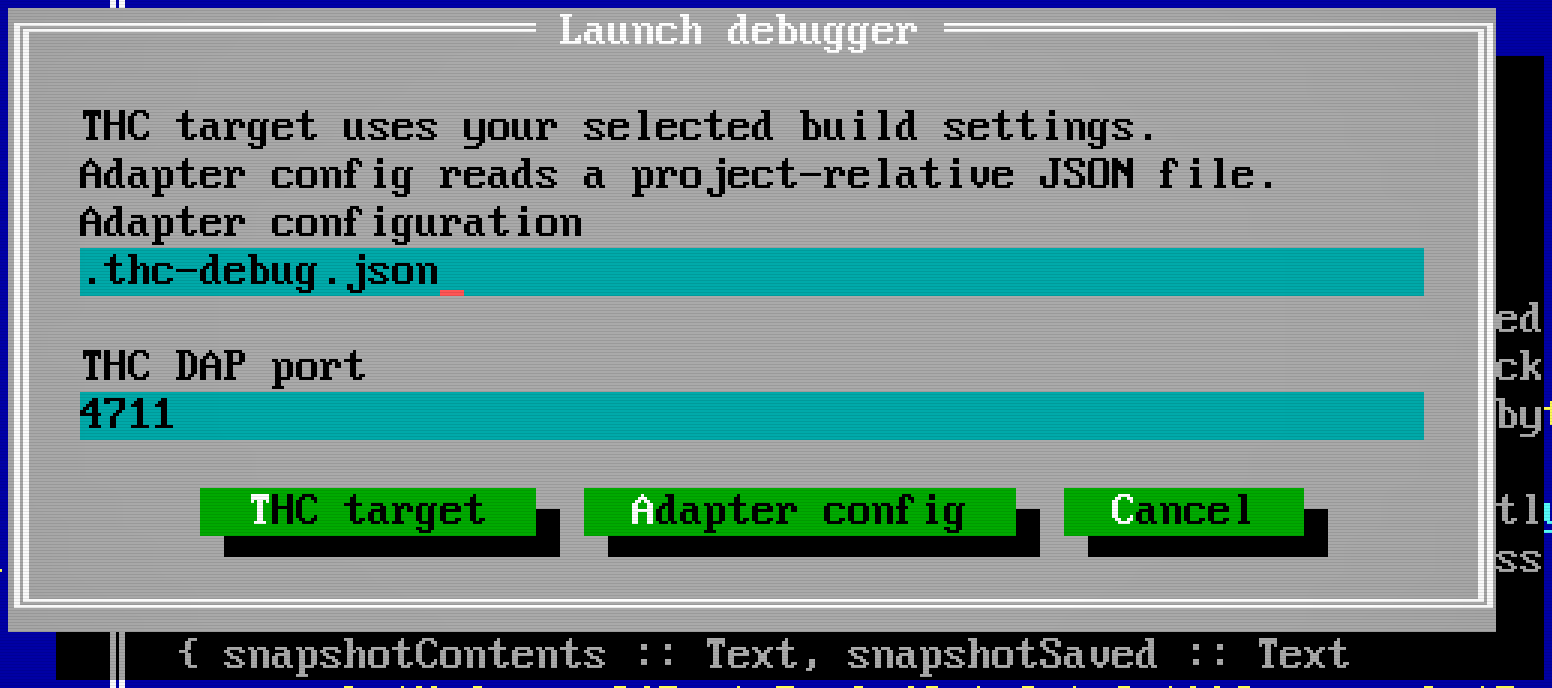
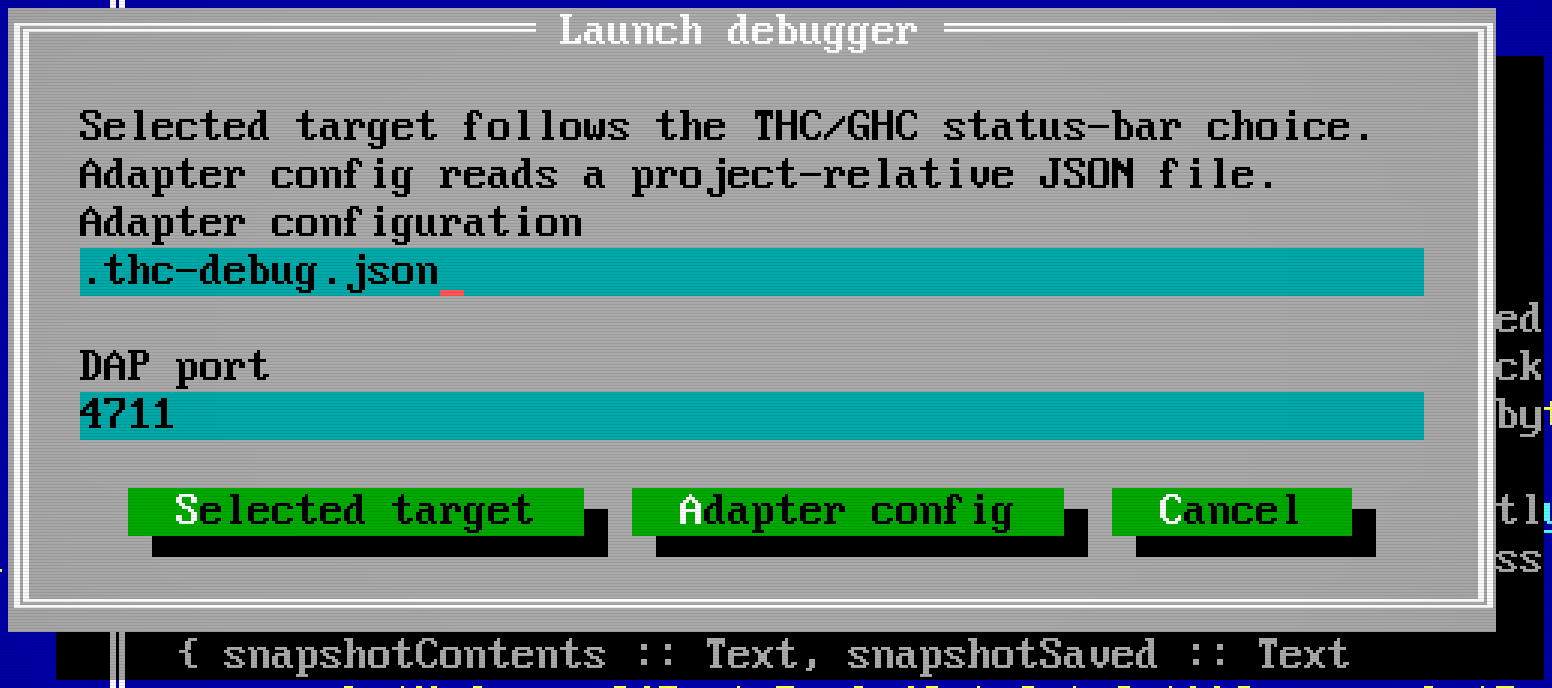
Unify THC and GHC selection in the status bar and debugger

diff --git a/test/dap-session.py b/test/dap-session.py
@@ -71,6 +71,7 @@ for session in range(1, 3 if mode == 'reconnect' else 2):
             if cmd == 'initialize':
                 event('initialized')
                 reply(req, dict(supportsConfigurationDoneRequest=True,
+                      supportsExceptionInfoRequest=mode in ('exception', 'mcp'),
                       exceptionBreakpointFilters=[dict(filter='uncaught', label='Uncaught exceptions', default=True)]))
             elif cmd in ('attach', 'launch'):
                 if mode == 'launch-fail':
@@ -102,6 +103,11 @@ for session in range(1, 3 if mode == 'reconnect' else 2):
                 reply(req)
                 reply(pending_attach)
                 event('stopped', dict(reason='entry', threadId=7, allThreadsStopped=True))
+            elif cmd == 'exceptionInfo':
+                assert mode in ('exception', 'mcp') and args['threadId'] == 7
+                reply(req, dict(exceptionId='IOException', description='cannot open λ.hs', breakMode='always',
+                    details=dict(typeName='IOException', message='permission denied', stackTrace='Main.hs:6',
+                                 innerException=[dict(typeName='Inner', message='nested cause')])) )
             elif cmd == 'threads':
                 thread_count += 1
                 if mode == 'lazy' and thread_count == 3:

diff --git a/docs/running.md b/docs/running.md
@@ -70,7 +70,7 @@ ACP terminal requests use the same backend, with approval before execution.
 
 ## Launch or attach a debugger
 
-**Debug > Launch** offers **THC target** and **Adapter config**. THC target
+**Debug > Launch** offers **Selected target** and **Adapter config**. With THC selected, Selected target
 uses the THC installation and package selected in **Run > Target**. Choose an
 unused loopback port (default `4711`); the editor starts `thc run --dap-port PORT`,
 waits for its debugger, and configures your breakpoints before execution.
@@ -80,7 +80,7 @@ launch can spend several minutes building and capturing dependencies.
 **Debug > Disconnect** stops that work; protocol response timing starts when
 the debugger connects.
 
-[![Launch debugger dialog offering THC target and Adapter config.](site/screenshots/debug-launch.png)](site/screenshots/debug-launch.png)
+[![Launch debugger dialog offering Selected target and Adapter config.](site/screenshots/debug-launch.png)](site/screenshots/debug-launch.png)
 
 THC initially stops at an instrumented source location. Embedded source opens
 read-only, where **Ctrl+F8** sets a breakpoint in the running program. Both
@@ -149,6 +149,23 @@ returns to the same breakpoints and stopped state. With THC, continuing to
 normal termination avoids a known early-detach shutdown race in the Graal DAP
 instrument.
 
+The status bar's **THC ▼** / **GHC ▼** menu switches the toolchain used by
+Compile, Make, Run and **Debug > Launch > Selected target**. The choice is saved
+with independent settings for each toolchain. A new choice starts with the
+standard `thc` or `ghc` executable; switching back restores its compiler and
+target. **Target settings…** lets you change them. Other open sessions refresh
+the global selection.
+Running sessions keep their current toolchain until you launch again.
+
+[![Status-bar toolchain selector with THC, GHC and Target settings.](site/screenshots/toolchain.png)](site/screenshots/toolchain.png)
+
+With **GHC** selected, open the saved Haskell entry file and choose **Selected
+target** to run its `main` through `hdb` on PATH. Program arguments come from
+Target settings. hdb uses that file's cradle/component and its own compiled-in
+GHC version. A customized GHC executable requires explicit **Adapter config**,
+so Selected target cannot silently substitute another compiler. Use **Adapter config**
+for a different entry point or additional GHC options.
+
 ## Step through a program
 
 1. Launch or attach, then wait for the first stop. The editor opens the
@@ -158,6 +175,8 @@ instrument.
    position; the status bar identifies the stopped frame.
 3. Open **Debug > Call stack**, select a frame and choose **Open** to visit its
    source. Use **Debug > Scopes** for values exposed by that adapter.
+   **Debug > Exceptions…** chooses when to stop; **Exception details** shows
+   the stopped exception, nested causes and stack when the adapter supports it.
 4. Press **F4** to continue. Set a breakpoint with **Ctrl+F8** when you want the
    program to stop at a source location instead of stepping all the way there.
 

diff --git a/docs/session-tools.md b/docs/session-tools.md
@@ -42,7 +42,7 @@ Editor positions are 1-based Unicode character positions. Raw LSP results retain
 
 `debug_status` reports the adapter, stop state, frame, breakpoints and current generation. Launch the selected THC target with `debug_launch`, supply an adapter configuration for another DAP implementation, or attach to a loopback adapter with `debug_attach`.
 
-Use `debug_set_breakpoints`, `debug_control` and `debug_inspect` to set source breakpoints, continue/step/pause, and inspect threads, stack frames, scopes, variables and adapter-owned source. Handles belong to a debug generation; the tool rejects them after execution advances. An accepted control command does not imply that the program has reached its next stop. Variable references must come from current scopes/variables responses. Lazy handles are not expanded by read-only inspection: adapters such as hdb force the thunk when those handles are requested. Variable invalidation expires the old handles without moving the source selection.
+Use `debug_set_breakpoints`, `debug_control` and `debug_inspect` to set source breakpoints, continue/step/pause, and inspect threads, stack frames, scopes, variables, adapter-owned source and `exceptionInfo`. Exception inspection requires a stopped target and an adapter advertising `supportsExceptionInfoRequest`; its structured response includes nested causes when supplied. Handles belong to a debug generation; the tool rejects them after execution advances. An accepted control command does not imply that the program has reached its next stop. Variable references must come from current scopes/variables responses. Lazy handles are not expanded by read-only inspection: adapters such as hdb force the thunk when those handles are requested. Variable invalidation expires the old handles without moving the source selection.
 
 `debug_present` controls visibility independently of execution. Set `follow: false`
 for background stops, then reveal `source`, `stack`, `scopes` or `output` using

diff --git a/docs/design/hdb-integration.md b/docs/design/hdb-integration.md
@@ -209,3 +209,21 @@ A real hdb run through this path repeated breakpoint, scopes, lazy inspection
 protection, stepping and termination, and left no listener on its selected port.
 The launch selector still uses Adapter config for GHC; component discovery and
 failed-cradle/exception qualification remain open items above.
+
+The shared status bar now selects THC/GHC for build, run and Selected target
+debug launch. GHC Selected target starts hdb on PATH using the saved source
+entry file, canonical project root, `main` and the configured program arguments.
+Advanced launches still use the adapter configuration. A real selected-GHC
+launch repeated the same live breakpoint/inspection/step/termination check.
+`exceptionInfo` is now exposed through the shared read-only inspection tool and
+Debug > Exception details, gated by the adapter capability. Structured fixture
+checks cover nested causes and stack text; real exception outcomes remain to
+be qualified independently.
+
+A real GHC `error "demo exception"` probe enabled hdb's `break-on-error` filter
+and confirmed the setExceptionBreakpoints response, but hdb 0.14.0.0/GHC 9.14.1
+ran to termination without an exception stop. Its output contained the error
+and an `exited` event after `terminated`. This does not qualify live exception
+stops/details; investigate the upstream filter behavior and preserve the exit
+code before claiming that path reliable. Fixture-backed exception presentation
+remains separate evidence.
